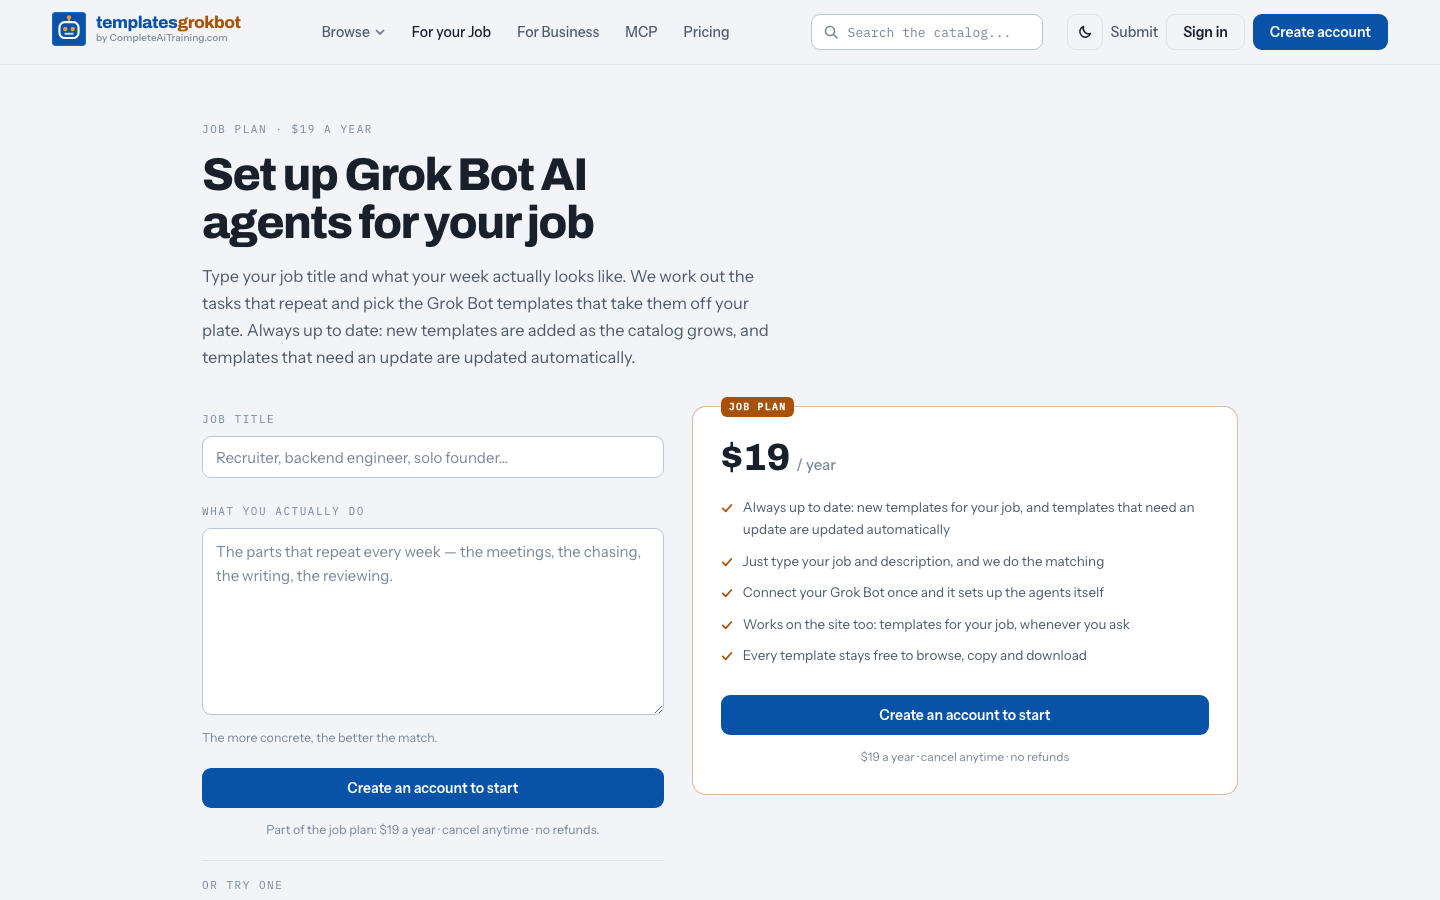
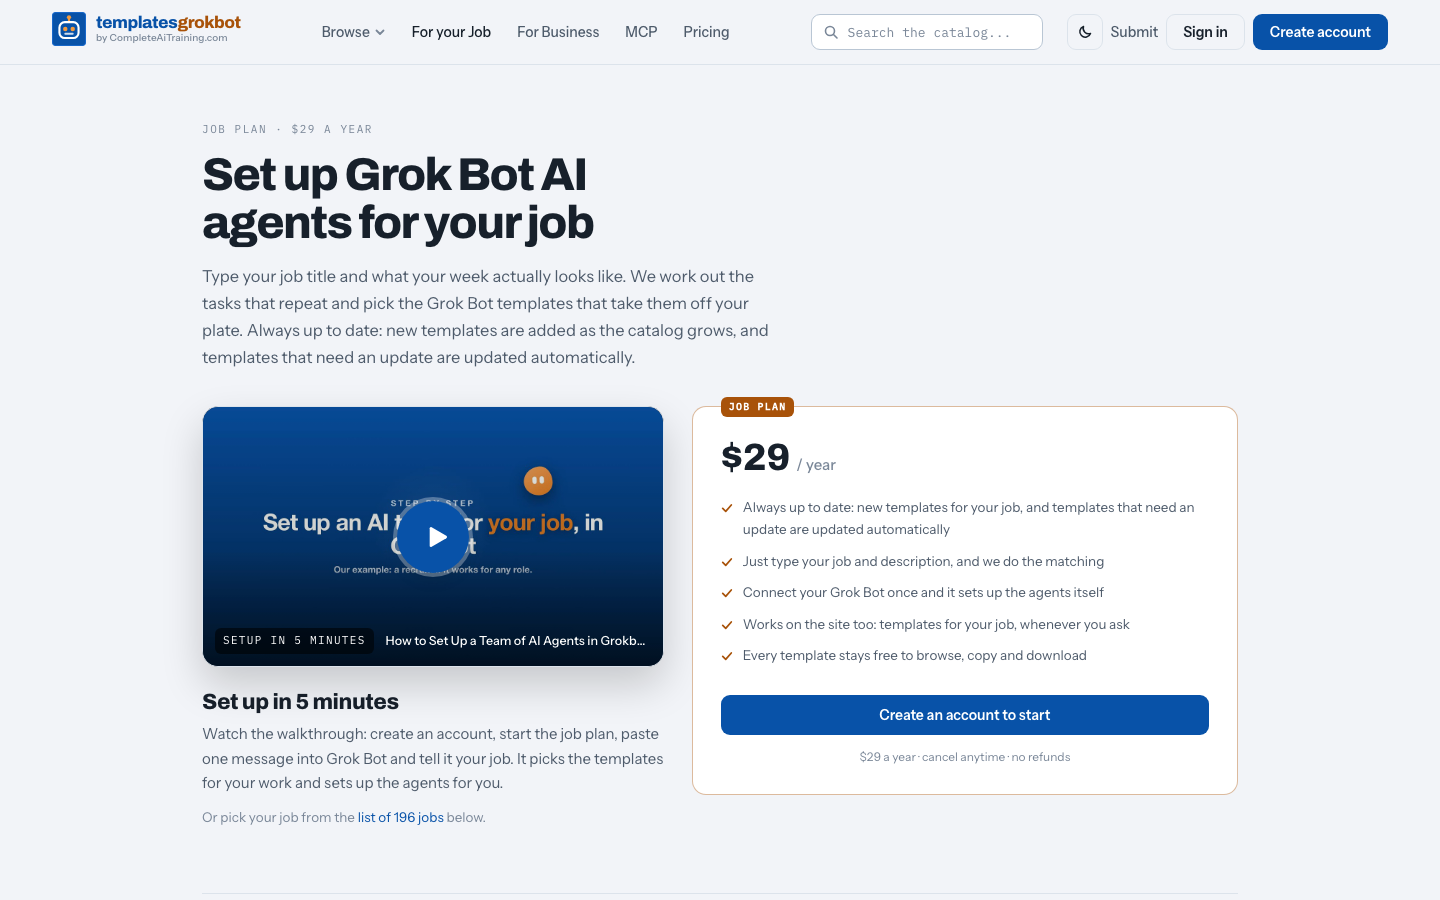
Update templates from the catalog (2026-09-17)
3,061 templates, 4 files changed.

Changed region(s): [[0.125, 0.4356, 0.4688, 0.9333], [0.625, 0.84, 0.6875, 0.8711], [0.5, 0.4978, 0.5312, 0.5289]]

diff --git a/README.md b/README.md
@@ -56,7 +56,7 @@ Finding the right 3,061 templates by hand takes a while. The **[job plan](https:
 - **Matched to your actual week.** Type your job title and describe what repeats. We turn that into tasks and search every template for them; templates that cover several of your tasks rank first.
 - **Grok Bot sets the agents up.** Paste one setup message, click *Authorize* and tell Grok Bot your job. It lists the templates, you pick, and it sets them up.
 - **Always up to date.** Every Monday your connected Grok Bot checks for new templates for your job, and only tells you when there is something new.
-- **One price.** $19 a year, cancel any time. Every template stays free, with or without the plan.
+- **One price.** $29 a year, cancel anytime, no refunds. Every template stays free, with or without the plan.
 
 <p align="center">
   <img src="assets/screenshots/for-my-job.png" alt="The job tool on templatesgrokbot.com" width="49%">
@@ -177,7 +177,7 @@ This repository is generated from the live catalog, so fixes and new templates l
 
 ## Setting up a whole team?
 
-[Hire a consultant](https://templatesgrokbot.com/hire-consultant): we set up Grok Bot for every employee over remote access, with templates matched to each person's work from a short questionnaire. $190 per employee, plus $19 per employee per year for updates. Custom integrations with your own systems are quoted up front.
+[Hire a consultant](https://templatesgrokbot.com/hire-consultant): we set up Grok Bot for every employee over remote access, with templates matched to each person's work from a short questionnaire. $190 per employee, plus $29 per employee per year for updates. Custom integrations with your own systems are quoted up front.
 
 ## About, license and credits
 
